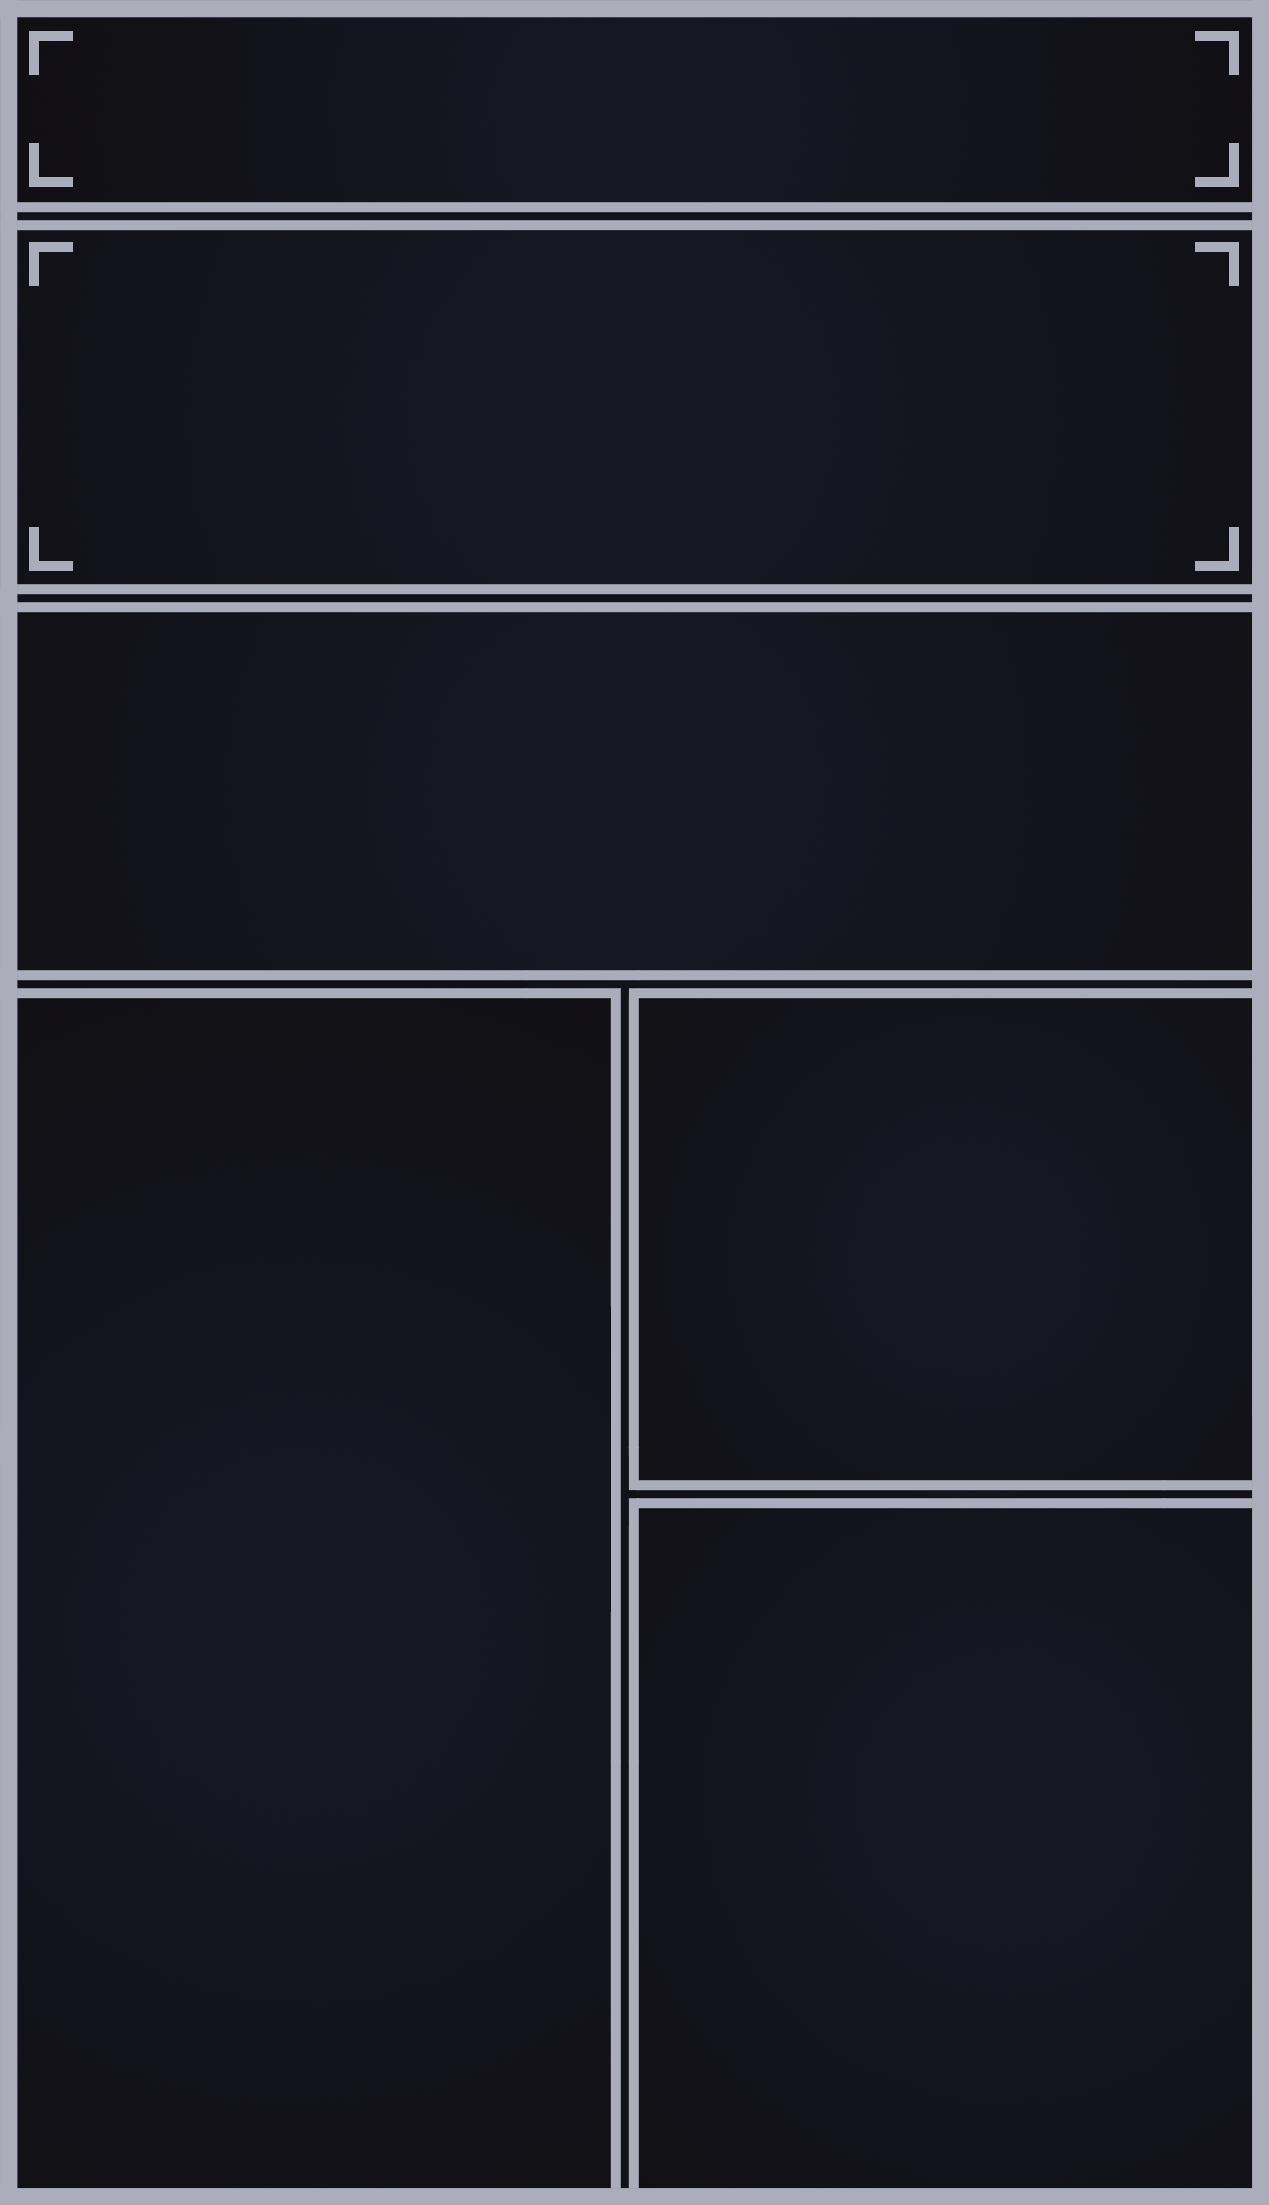
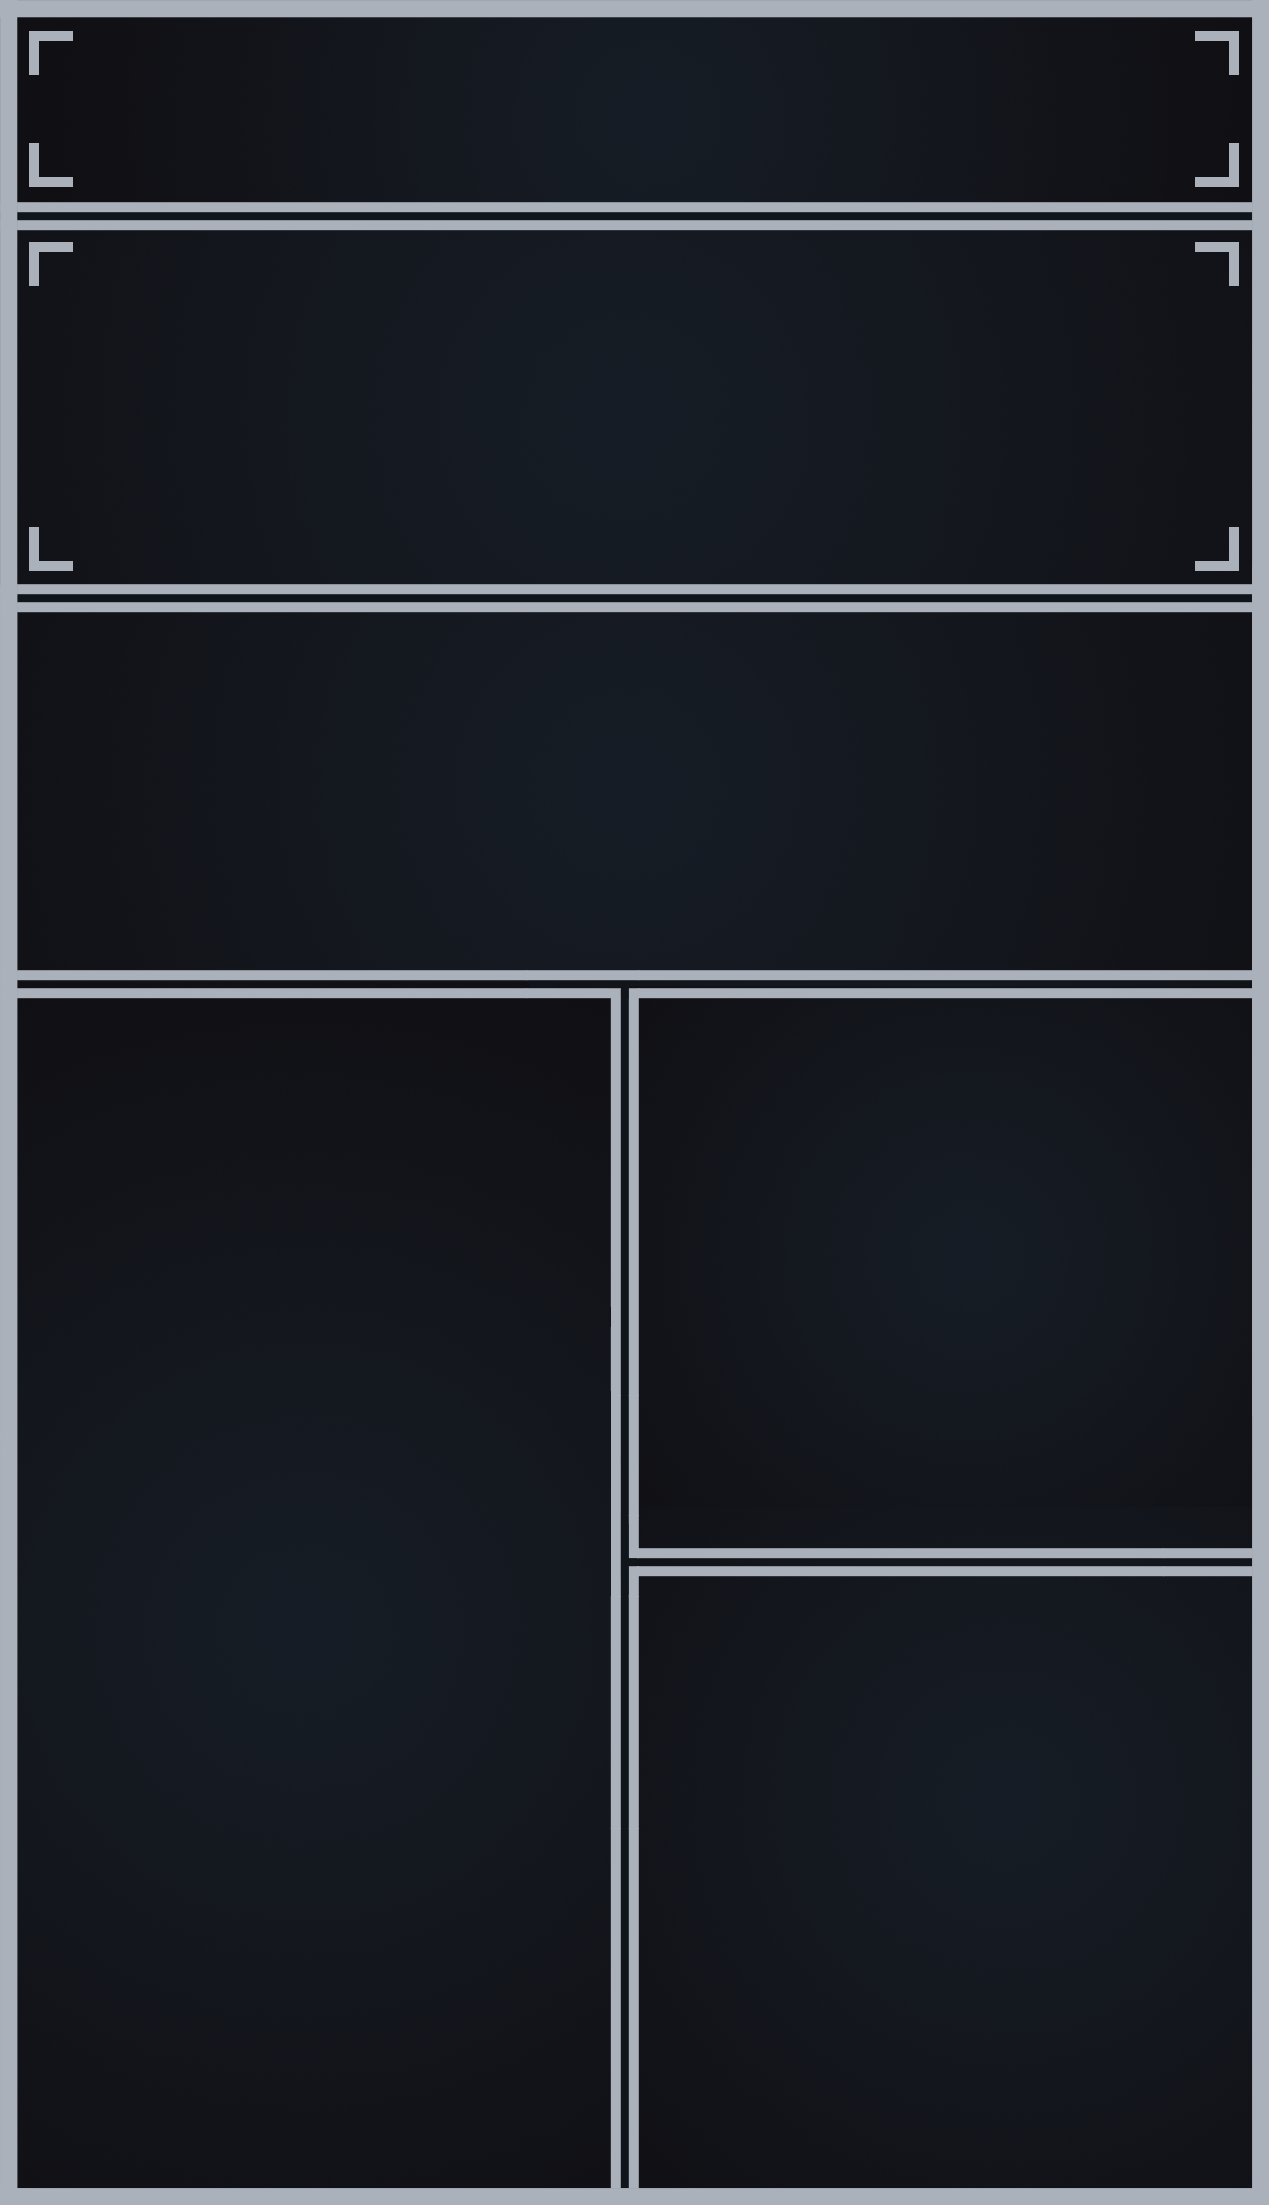
Implement drawing ewar suites for cards

Changed region(s): [[0.4917, 0.6476, 0.9835, 0.7401]]

diff --git a/application/cardgenerator/card_generator.py b/application/cardgenerator/card_generator.py
@@ -5,18 +5,19 @@ from application.weapons.models import *
 
 class CardGenerator():
 
-    def generate_card(self, ship, card_size):
+    def __init__(self, card_size):
+        self.init_card(card_size)
+
+    def generate_card(self, ship):
         self.stat_vertical_sep = (0,70)
 
-        image = self.init_card(card_size)
-        drawer = ImageDraw.Draw(image)
+        drawer = ImageDraw.Draw(self.card)
         colors = StatColor()
         
         # Draw title and cost. If ship is command-capable, move title a little way to the right and draw command icon.
         if ship.command_capable:
             drawer.text(xy=(198, 27), text=ship.name, fill=(255,255,255), font=self.ship_title_font)
-            # Placeholder for command icon
-            drawer.text(xy=(93, 27), text="C", fill=(255,255,255), font=self.ship_title_font)
+            self.card.alpha_composite(self.cmd_star, (95,63))
         else:
             drawer.text(xy=(93, 27), text=ship.name, fill=(255,255,255), font=self.ship_title_font)
 
@@ -46,6 +47,11 @@ class CardGenerator():
         drawer.text(xy=col1_row3, text="Delta-v", fill=(255,255,255), font=self.stats_font)
         drawer.text(xy=self._add_coords_(col1_row3, number_dsplc), text=str(ship.delta_v), fill=colors.color(Stat.DELTA_V, ship.delta_v), font=self.stats_font)
         
+        # Bad hack: Displace active evasion and endurance more to the right to align with passive.
+        # Only works right if passive is a minus sign and two digits, which it currently always is,
+        # but...
+        evasion_dsplc = (392,0)
+
         # Evasion passive
         drawer.text(xy=col2_start, text="Passive", fill=(255,255,255), font=self.stats_font)
         drawer.text(xy=self._add_coords_(col2_start, number_dsplc), text=str(ship.evasion_passive), 
@@ -54,23 +60,35 @@ class CardGenerator():
         # Evasion active
         col2_row2 = self._add_coords_(col2_start, self.stat_vertical_sep)
         drawer.text(xy=col2_row2, text="Active", fill=(255,255,255), font=self.stats_font)
-        drawer.text(xy=self._add_coords_(col2_row2, number_dsplc), text=str(ship.evasion_active), 
+        drawer.text(xy=self._add_coords_(col2_row2, evasion_dsplc), text=str(ship.evasion_active), 
         fill=colors.color(Stat.EVASION_PASSIVE, ship.evasion_passive), font=self.stats_font)
         
         # Evasion endurance stat if ship has a pulse drive
         if "pulse" or "Pulse" in ship.propulsion_type:
             col2_row3 = self._add_coords_(col2_row2, self.stat_vertical_sep)
             drawer.text(xy=col2_row3, text="Endurance", fill=(255,255,255), font=self.stats_font)
-            drawer.text(xy=self._add_coords_(col2_row3, number_dsplc), text=str(ship.evasion_endurance), 
+            drawer.text(xy=self._add_coords_(col2_row3, evasion_dsplc), text=str(ship.evasion_endurance), 
             fill=colors.color(Stat.EVASION_ENDURANCE, ship.evasion_endurance), font=self.stats_font)
 
-        self._draw_weapons_(self.get_weapons(ship), drawer, colors)
+        self._draw_weapons_(self._get_weapons_(ship), drawer, colors)
 
-        image.save("application/cardgenerator/assets/result.png")
+        self.card.save("application/cardgenerator/assets/result.png")
 
     def init_card(self, card_size):
-        # This method doesn't actually use the card size yet
-        image = Image.open("application/cardgenerator/assets/templates/card_base_1.png")
+        # Called when self.card generator is instantiated. Can also be called again to change the self.card size.
+        # This method doesn't actually use the self.card size yet.
+
+        # Load self.card template
+        self.card = Image.open("application/cardgenerator/assets/templates/card_base_1.png")
+        # Load common assets
+        self.cmd_star = Image.open("application/cardgenerator/assets/images/misc/cmd_star.png")
+        self.self_defense_jamming = Image.open("application/cardgenerator/assets/images/ewar icons/self_defense_jamming.png")
+        self.cover_jamming = Image.open("application/cardgenerator/assets/images/ewar icons/cover_jamming.png")
+        self.high_intensity_jamming = Image.open("application/cardgenerator/assets/images/ewar icons/high_intensity_jamming.png")
+        self.defense_jamming = Image.open("application/cardgenerator/assets/images/ewar icons/defense_jamming.png")
+        self.missile_jamming = Image.open("application/cardgenerator/assets/images/ewar icons/missile_jamming.png")
+        self.comms_jamming = Image.open("application/cardgenerator/assets/images/ewar icons/comms_jamming.png")
+        self.ECCM = Image.open("application/cardgenerator/assets/images/ewar icons/eccm.png")       
 
         # Set fonts
         self.ship_title_font = ImageFont.truetype("application/cardgenerator/assets/fonts/Oswald-Bold.ttf", 94)
@@ -80,13 +98,8 @@ class CardGenerator():
         self.laser_endtext_font = ImageFont.truetype("application/cardgenerator/assets/fonts/Oswald-Bold.ttf", 40)
         self.flavor_font = ImageFont.truetype("application/cardgenerator/assets/fonts/CharisSIL-B.ttf", 47)
 
-        return image
-
-    def get_weapons(self, ship):
+    def _get_weapons_(self, ship):
         # Returns the ship's weapons in the order required for ship cards
-        # Note: Due to SQLAlchemy weirdness these are InstrumentedLists and iterating through them may not
-        # actually work. However, retrieving the first works, and we only really need one of them as multiple
-        # weapons of the same type are not even intended to be handled by the cards.
         weapons = []
 
         if next(iter(ship.CIWSs), None):
@@ -106,6 +119,48 @@ class CardGenerator():
 
         return weapons
 
+    def _get_ewar_abilities_(self, ewar):
+        # Returns the ewar suite's abilities in the order required for ship cards
+        # This is currently very inefficient, iterating through all abilities until the desired one is found.
+        # This is also very brittle, since it requires the db to have these particular names for the abilities.
+        # That will need to be improved.
+        abilities = []
+        ability = ""
+
+        for ability in ewar.abilities:
+            if ability.ability == "ECCM":
+                abilities.insert(0, ability)
+
+        for ability in ewar.abilities:
+            if ability.ability == "Comms jamming":
+                abilities.insert(0, ability)
+
+        for ability in ewar.abilities:
+            if ability.ability == "Missile jamming":
+                abilities.insert(0, ability)        
+        
+        for ability in ewar.abilities:
+            if ability.ability == "Defense jamming":
+                abilities.insert(0, ability)        
+               
+        for ability in ewar.abilities:
+            if ability.ability == "Missile jamming":
+                abilities.insert(0, ability)
+
+        for ability in ewar.abilities:
+            if ability.ability == "High-intensity jamming":
+                abilities.insert(0, ability)     
+
+        for ability in ewar.abilities:
+            if ability.ability == "Cover jamming":
+                abilities.insert(0, ability)
+
+        for ability in ewar.abilities:
+            if ability.ability == "Self-defense jamming":
+                abilities.insert(0, ability)
+
+        return abilities
+        
     def _draw_weapons_(self, weapons, drawer, colors):
         i = 0
         while i < 3:
@@ -114,7 +169,7 @@ class CardGenerator():
             if i == 1:
                 startcoords = (710,1015)
             if i == 2:
-                startcoords = (710,1525)
+                startcoords = (710,1594)
 
             # Draw weapon flavor text (common to all weapon types)
             flavorcoords = self._add_coords_(startcoords, (0,65))
@@ -138,7 +193,7 @@ class CardGenerator():
 
             if isinstance(weapons[i], Ewar):
                 ewar = weapons[i]
-                self._draw_ewar_(ewar, drawer, colors, startcoords, statstart, number_dsplc)
+                self._draw_ewar_(ewar, drawer, colors, startcoords, statstart)
 
             if isinstance(weapons[i], CIWS):
                 ciws = weapons[i]
@@ -148,9 +203,9 @@ class CardGenerator():
 
     def _draw_laser_(self, laser, drawer, colors, startcoords, statstart, number_dsplc):
         if laser.turreted:
-            drawer.text(xy=startcoords, text="Turreted beam", fill=(255,255,255), font=self.sub_title_font)
+            drawer.text(xy=startcoords, text="Turreted c-beam", fill=(255,255,255), font=self.sub_title_font)
         else:
-            drawer.text(xy=startcoords, text="Beam weapon", fill=(255,255,255), font=self.sub_title_font)
+            drawer.text(xy=startcoords, text="C-beam", fill=(255,255,255), font=self.sub_title_font)
 
         # Get colors (dmg based on range 3 which all lasers have)
         am_color = colors.color(Stat.LASER_AM, laser.laser_dmg_missile)
@@ -227,15 +282,75 @@ class CardGenerator():
         fill=(colors.color(Stat.AM_DMG_SHIP, area_missile.dmg_ship)), font=self.stats_font)
         
         # Anti-missile
-        if (am_type == "Defense missiles"):
+        if am_type == "Defense missiles":
             row3 = self._add_coords_(row2, self.stat_vertical_sep)
             drawer.text(xy=row3, text="Anti-missile", fill=(255,255,255), font=self.stats_font)
             drawer.text(xy=self._add_coords_(row3, number_dsplc), text=str(area_missile.dmg_missile), 
-            fill=colros.color(Stat.AM_DMG_MISSILE, area_missile.dmg_missile), font=self.stats_font)
+            fill=coloros.color(Stat.AM_DMG_MISSILE, area_missile.dmg_missile), font=self.stats_font)
 
-    def _draw_ewar_(self, ewar, drawer, colors, startcoords, statstart, number_dsplc):
-        # Will be finished once the ewar data type is finished
+    def _draw_ewar_(self, ewar, drawer, colors, startcoords, statstart):
         drawer.text(xy=startcoords, text="Ewar suite", fill=(255,255,255), font=self.sub_title_font)
+
+        abilities = self._get_ewar_abilities_(ewar)
+        currentpos = self._add_coords_(startcoords, (0,245))
+        rangepos = self._add_coords_(currentpos, (28,-95))
+        icon_hor_dsplc = (120,0)
+        icon_ver_dpslc = (0, 110)
+
+        # This inner method is used to avoid copypaste in the main method body
+        def draw_ability(i, ability, icon):
+            # Range
+            drawer.text(xy=rangepos, text=str(abilities[i].erange), fill=(222,222,222), font=self.stats_font)
+            # Icon
+            self.card.alpha_composite(icon, currentpos)
+            # Adjust position for next icon
+            self._add_coords_(currentpos, icon_hor_dsplc)
+            # If the next ability is the same, draw it below the current one and skip ahead.
+            if i + 1 < len(abilities) and abilities[i + 1].ability == ability:
+                self.card.alpha_composite(icon, self._add_coords_(currentpos, icon_ver_dpslc))
+                i += 1
+
+            return i + 1
+
+        i = 0
+        while i < len(abilities):
+            if abilities[i].ability == "Self-defense jamming":
+                icon = self.self_defense_jamming
+                i = draw_ability(i, "Self-defense jamming", icon)
+                currentpos = self._add_coords_(currentpos, icon_hor_dsplc)
+                rangepos = self._add_coords_(rangepos, icon_hor_dsplc)
+            elif abilities[i].ability == "Cover jamming":
+                icon = self.cover_jamming
+                i = draw_ability(i, "Cover jamming", icon)
+                currentpos = self._add_coords_(currentpos, icon_hor_dsplc)
+                rangepos = self._add_coords_(rangepos, icon_hor_dsplc)
+            elif abilities[i].ability == "High-intensity jamming":
+                icon = self.high_intensity_jamming
+                i = draw_ability(i, "High-intensity jamming", icon)
+                currentpos = self._add_coords_(currentpos, icon_hor_dsplc)
+                rangepos = self._add_coords_(rangepos, icon_hor_dsplc)
+            elif abilities[i].ability == "Defense jamming":
+                icon = self.defense_jamming
+                i = draw_ability(i, "Defense jamming", icon)
+                currentpos = self._add_coords_(currentpos, icon_hor_dsplc)
+                rangepos = self._add_coords_(rangepos, icon_hor_dsplc)
+            elif abilities[i].ability == "Missile jamming":
+                icon = self.missile_jamming
+                i = draw_ability(i, "Missile jamming", icon)
+                currentpos = self._add_coords_(currentpos, icon_hor_dsplc)
+                rangepos = self._add_coords_(rangepos, icon_hor_dsplc)
+            elif abilities[i].ability == "Comms jamming":
+                icon = self.comms_jamming
+                i = draw_ability(i, "Comms jamming", icon)
+                currentpos = self._add_coords_(currentpos, icon_hor_dsplc)
+                rangepos = self._add_coords_(rangepos, icon_hor_dsplc)
+            elif abilities[i].ability == "ECCM":
+                icon = self.ECCM
+                i = draw_ability(i, "ECCM", icon)
+                currentpos = self._add_coords_(currentpos, icon_hor_dsplc)
+                rangepos = self._add_coords_(rangepos, icon_hor_dsplc)
+            else:
+                i += 1            
 
     def _draw_CIWS_(self, CIWS, drawer, colors, startcoords, statstart, number_dsplc):
         # Title

diff --git a/application/__init__.py b/application/__init__.py
@@ -91,6 +91,6 @@ db.session().commit()
 from application.cardgenerator.card_generator import CardGenerator, CardSize
 from application.ships.models import Ship
 
-ship = Ship.query.get(2)
-card_generator = CardGenerator()
-card_generator.generate_card(ship, CardSize.BIG)
+ship = Ship.query.get(1)
+card_generator = CardGenerator(CardSize.BIG)
+card_generator.generate_card(ship)
